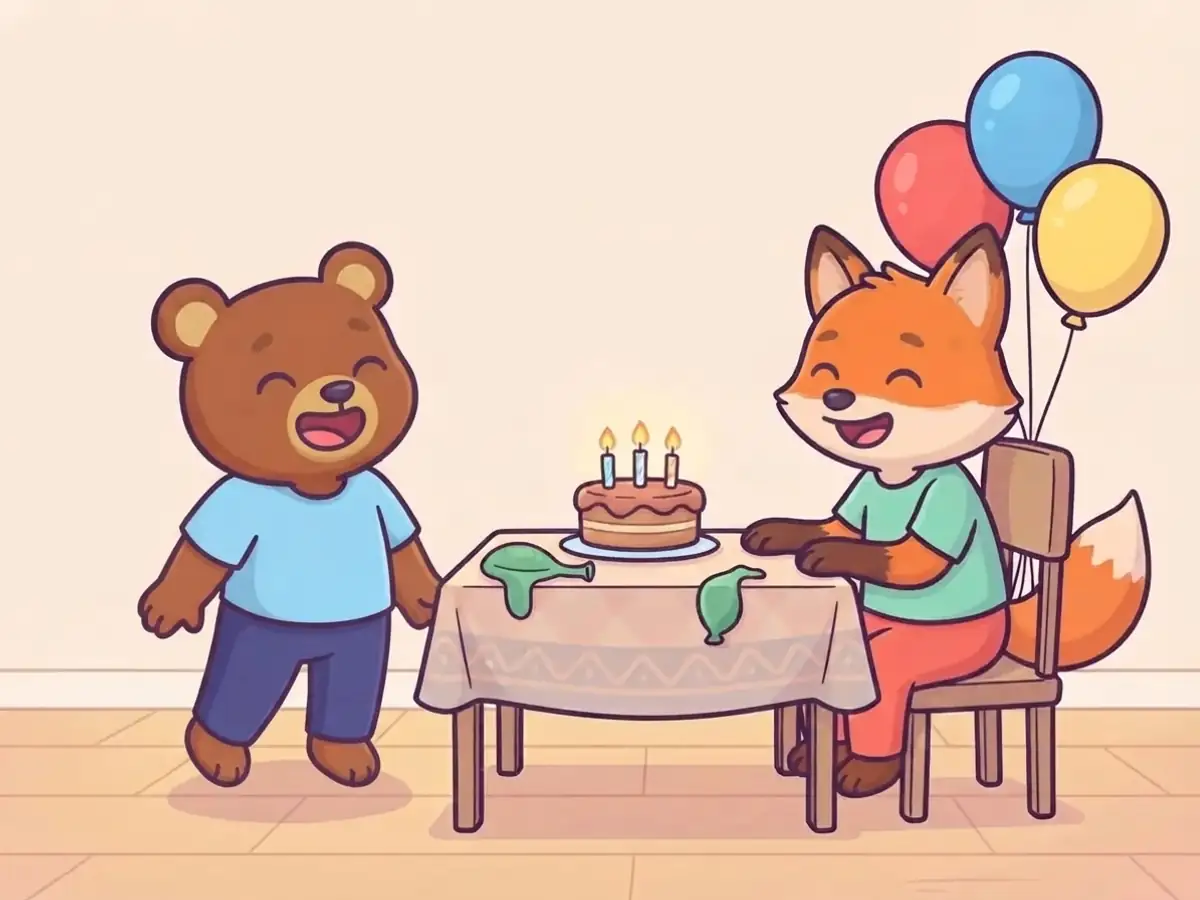
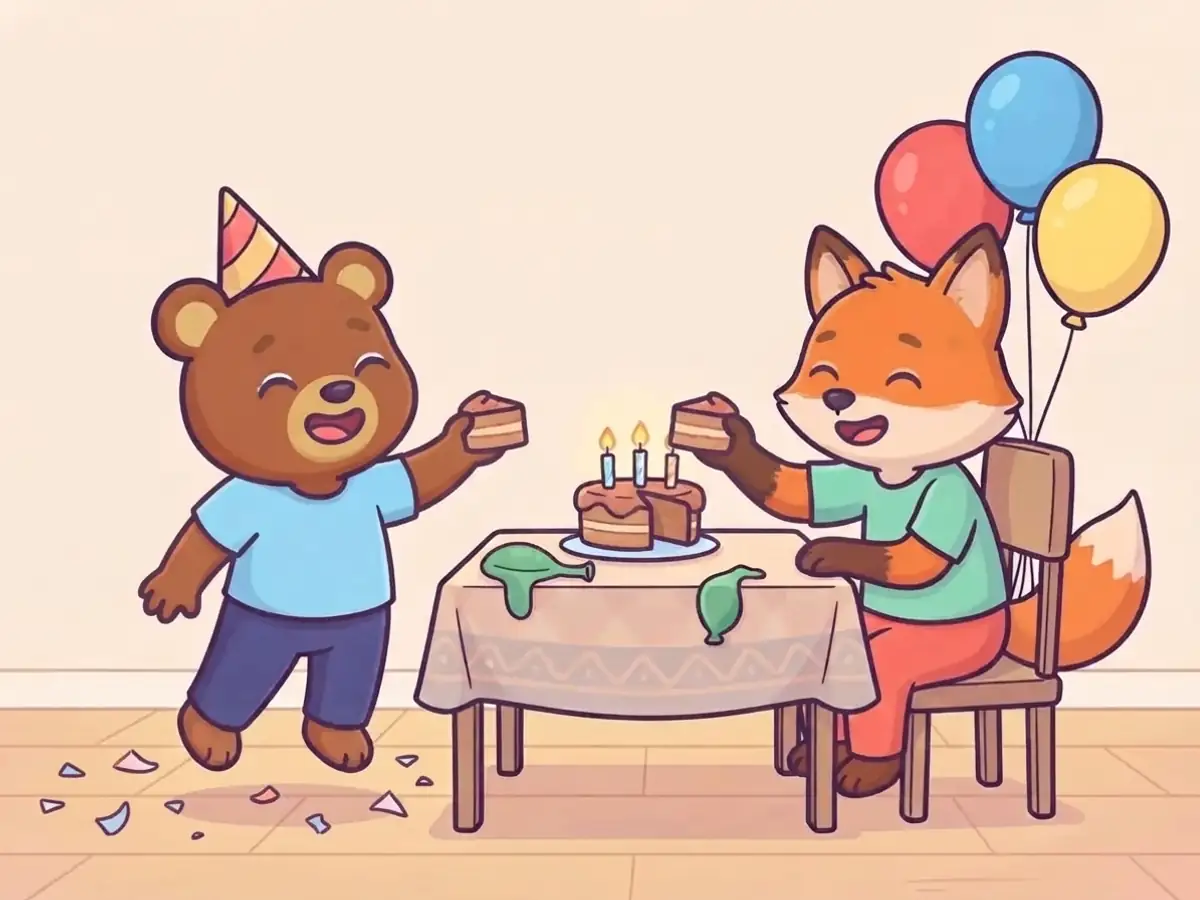
Gefühle: the seven missing home pictures, and the balloon story's breath, cake and scraps fixed
- the not-so-good ideas at home for sad, scared and the birthday are drawn (no „Geplant“ rows left);
  „Geschenk wegnehmen“ became „Partyhut wegnehmen“, since the birthday picture shows no present
- „Erschrocken, ein lauter Knall“: „Tief pusten“ turns away from the cake and blows into the empty corner;
  step 3 is „Mit dem Fuchs Kuchen essen“ instead of squeaking a small balloon that could burst; the burst
  balloon's scraps and the party hat stay in every picture; outro and end caption to match
- changed lines told in German until translated: a translated step may be null, outro and end caption may be
  missing (localized.ts); „Zu Hause“ and „Mehr Gefühle“ marked partial, the tests check whole parts strictly
- rules: a breath never towards a cake or food, a good idea uses only what the first picture shows and nothing
  that can break or startle, what happened stays seen in every later picture

diff --git a/src/games/feelings/feelings.test.ts b/src/games/feelings/feelings.test.ts
@@ -4,7 +4,7 @@ import { LANGUAGE_STATUS } from "@/content/ideas/languageStatus";
 import type { TargetLanguageId } from "@/content/targetLanguages";
 import { COMFORTS, type ComfortId, FEELINGS } from "./bear";
 import { bearImages, imageFor, moodImages, situationImages } from "./images";
-import { SITUATIONS } from "./kita";
+import { SITUATIONS, type SituationId } from "./kita";
 import { COMFORT_TEXTS, FEELING_TEXTS, SITUATION_TEXTS, storyIn } from "./localized";
 import { WEATHERS } from "./mood";
 import { SELF_SITUATIONS } from "./selbst";
@@ -17,13 +17,15 @@ import { RECORDED_SOUNDS } from "./story";
 // "done" (or "text", translated but not recorded yet) there has every text, and changing a German line means marking
 // it "partial" until it is translated again.
 const STATUS_PARTS = LANGUAGE_STATUS.find((row) => row.href === "/gefuehle/")?.parts ?? [];
-const translatedIn = (label: string) =>
+/** The languages a part of the language table has, whole (`done`, `text`) or, with `partly`, also in part. */
+const translatedIn = (label: string, partly = false) =>
   (Object.entries(STATUS_PARTS.find((part) => part.label === label)?.languages ?? {}) as [TargetLanguageId, string][])
-    .filter(([language, state]) => language !== "de" && (state === "done" || state === "text"))
+    .filter(([language, state]) => language !== "de" && (state === "done" || state === "text" || (partly && state === "partial")))
     .map(([language]) => language);
 const TRANSLATED_HOME = translatedIn("Zu Hause");
+const TRANSLATED_HOME_PARTLY = translatedIn("Zu Hause", true);
 const TRANSLATED_KITA = translatedIn("Wie geht's dir? und Kindergarten");
-const TRANSLATED_SELF = translatedIn("Mehr Gefühle");
+const TRANSLATED_SELF = translatedIn("Mehr Gefühle", true);
 
 // Every picture the game asks for is in bilder/. A missing one shows a placeholder with its file name, which is
 // allowed only while bilder/README.md lists it under „Geplant“ with its prompt, for the grown-up to look at first.
@@ -121,11 +123,16 @@ test("every translation of a kindergarten story matches the German beat for beat
       if (!text) continue;
       const where = `${language} ${situation.id}`;
       expect(beatParts(text.intro), `${where} intro`).toEqual(beatParts(situation.intro));
-      expect(beatParts(text.outro), `${where} outro`).toEqual(beatParts(situation.outro));
+      if (text.outro) expect(beatParts(text.outro), `${where} outro`).toEqual(beatParts(situation.outro));
       expect(text.steps.length, `${where} steps`).toBe(situation.steps.length);
-      situation.steps.forEach((step, i) => expect(beatParts(text.steps[i].beats), `${where} step ${i + 1}`).toEqual(beatParts(step.beats)));
+      // A step that is `null` is told in German until it is translated.
+      situation.steps.forEach((step, i) => {
+        const words = text.steps[i];
+        if (words) expect(beatParts(words.beats), `${where} step ${i + 1}`).toEqual(beatParts(step.beats));
+      });
       // Every step's card has a caption of its own.
-      expect(new Set(text.steps.map((s) => s.caption)).size, `${where} captions`).toBe(text.steps.length);
+      const captions = text.steps.flatMap((s) => (s ? [s.caption] : []));
+      expect(new Set(captions).size, `${where} captions`).toBe(captions.length);
     }
   }
 });
@@ -182,19 +189,26 @@ const stringsIn = (value: unknown): string[] =>
 // too) and kindergarten story, so none of them is told half in German.
 test("every translated language has every story", () => {
   expect(TRANSLATED_KITA.length, "the language table's parts of /gefuehle/").toBeGreaterThan(0);
-  for (const language of TRANSLATED_HOME) {
+  // A part marked `partial` has every story, with a changed line here and there told in German (`null`); a part
+  // marked translated has every line.
+  for (const language of TRANSLATED_HOME_PARTLY) {
     for (const id of Object.keys(COMFORTS) as ComfortId[]) expect(COMFORT_TEXTS[language]?.[id], `${language} comfort ${id}`).toBeDefined();
     for (const { id } of FEELINGS) {
       expect(FEELING_TEXTS[language]?.[id], `${language} feeling ${id}`).toBeDefined();
-      expect(FEELING_TEXTS[language]?.[id]?.instead, `${language} feeling ${id}`).not.toContain(null);
+      if (TRANSLATED_HOME.includes(language)) expect(FEELING_TEXTS[language]?.[id]?.instead, `${language} feeling ${id}`).not.toContain(null);
     }
   }
-  for (const language of TRANSLATED_KITA) {
-    for (const { id } of SITUATIONS) expect(SITUATION_TEXTS[language]?.[id], `${language} story ${id}`).toBeDefined();
-  }
+  const whole = (language: TargetLanguageId, id: SituationId) => {
+    const text = SITUATION_TEXTS[language]?.[id];
+    expect(text, `${language} story ${id}`).toBeDefined();
+    expect(text?.steps, `${language} story ${id}`).not.toContain(null);
+    expect(text?.outro && text.endCaption, `${language} story ${id} end`).toBeDefined();
+  };
+  for (const language of TRANSLATED_KITA) for (const { id } of SITUATIONS) whole(language, id);
   for (const language of TRANSLATED_SELF) {
     for (const { id } of SELF_SITUATIONS) expect(SITUATION_TEXTS[language]?.[id], `${language} story ${id}`).toBeDefined();
   }
+  for (const language of translatedIn("Mehr Gefühle")) for (const { id } of SELF_SITUATIONS) whole(language, id);
 });
 
 // A language in its own script has no word left in Latin letters (a name like Tapsi is written in its letters too).

diff --git a/src/games/feelings/localized.ts b/src/games/feelings/localized.ts
@@ -33,15 +33,19 @@ export interface FeelingText {
 /** A beat's words in another language: the same parts as the German beat (narration, line or both); its sound stays the German one's. */
 export type BeatText = Pick<Beat, "narration" | "line">;
 
-/** A kindergarten story's words in another language: the German story's texts, beat for beat and step for step. */
+/**
+ * A kindergarten story's words in another language: the German story's texts, beat for beat and step for step. A step
+ * whose German changed is `null`, and a changed outro or end caption is left out: they are told in German until the
+ * translation is asked for (like a not-so-good idea at home that is `null`).
+ */
 export interface SituationText {
   title: string;
   caption: string;
   intro: BeatText[];
   /** `question` like the German step's; while it is missing, the general „Was kann der kleine Bär tun?“ stands in. */
-  steps: { caption: string; question?: string; beats: BeatText[]; instead: { caption: string; answer: string } }[];
-  outro: BeatText[];
-  endCaption: string;
+  steps: ({ caption: string; question?: string; beats: BeatText[]; instead: { caption: string; answer: string } } | null)[];
+  outro?: BeatText[];
+  endCaption?: string;
 }
 
 /** The translations of the kind things, by language. */
@@ -93,15 +97,19 @@ export function situationIn(situation: Situation, language: TargetLanguageId): S
     ...situation,
     title: text.title,
     caption: text.caption,
-    endCaption: text.endCaption,
+    endCaption: text.endCaption ?? situation.endCaption,
     intro: beatsIn(situation.intro, text.intro),
-    outro: beatsIn(situation.outro, text.outro),
-    steps: situation.steps.map((step, i) => ({
-      caption: text.steps[i].caption,
-      question: text.steps[i].question ?? pick(QUESTION, language),
-      beats: beatsIn(step.beats, text.steps[i].beats),
-      instead: { ...step.instead, ...text.steps[i].instead },
-    })),
+    outro: text.outro ? beatsIn(situation.outro, text.outro) : situation.outro,
+    steps: situation.steps.map((step, i) => {
+      const words = text.steps[i];
+      if (!words) return step;
+      return {
+        caption: words.caption,
+        question: words.question ?? pick(QUESTION, language),
+        beats: beatsIn(step.beats, words.beats),
+        instead: { ...step.instead, ...words.instead },
+      };
+    }),
   };
 }
 

diff --git a/src/content/ideas/languageStatus.ts b/src/content/ideas/languageStatus.ts
@@ -202,14 +202,14 @@ export const LANGUAGE_STATUS: LanguageStatusRow[] = [
       {
         label: "Zu Hause",
         recorded: true,
-        languages: { de: "done", en: "text", zh: "text", hi: "text", es: "text", ar: "text", ru: "text" },
-        note: "„Müde am Abend“ (der Bär legt sich selbst schlafen) neu übersetzt am 3. November 2026. Deutsch von ElevenLabs gesprochen (Tapsis Stimme, 3. November 2026), die Aufnahmen der anderen Sprachen fehlen noch.",
+        languages: { de: "done", en: "partial", zh: "partial", hi: "partial", es: "partial", ar: "partial", ru: "partial" },
+        note: "„Müde am Abend“ (der Bär legt sich selbst schlafen) neu übersetzt am 3. November 2026. Deutsch von ElevenLabs gesprochen (Tapsis Stimme, 3. November 2026), die Aufnahmen der anderen Sprachen fehlen noch. Übersetzt bis auf „Partyhut wegnehmen“ beim Geburtstag (statt „Geschenk wegnehmen“, 4. November 2026): nur Deutsch, noch nicht aufgenommen.",
       },
       {
         label: "Mehr Gefühle",
         recorded: true,
-        languages: { de: "done", en: "text", zh: "text", hi: "text", es: "text", ar: "text", ru: "text" },
-        note: "24 Geschichten in selbst.ts – enttäuscht, eifersüchtig, Ekel, peinlich, aufgeregt und 19 weitere vom Spielplatz bis zum lauten Knall –, alle auf Deutsch von ElevenLabs gesprochen und alle übersetzt in kita.<Sprache>.ts (3. November 2026); die Aufnahmen der anderen Sprachen fehlen noch.",
+        languages: { de: "done", en: "partial", zh: "partial", hi: "partial", es: "partial", ar: "partial", ru: "partial" },
+        note: "24 Geschichten in selbst.ts – enttäuscht, eifersüchtig, Ekel, peinlich, aufgeregt und 19 weitere vom Spielplatz bis zum lauten Knall –, alle auf Deutsch von ElevenLabs gesprochen und übersetzt in kita.<Sprache>.ts (3. November 2026); die Aufnahmen der anderen Sprachen fehlen noch. Beim lauten Knall ist der dritte Schritt neu („Mit dem Fuchs Kuchen essen“ statt „Kleinen Ballon quietschen lassen“) und das Ende geändert (4. November 2026): nur Deutsch, noch nicht aufgenommen.",
       },
       {
         label: "Buch, Gruppen und Rollen",

diff --git a/src/games/feelings/kita.hi.ts b/src/games/feelings/kita.hi.ts
@@ -949,14 +949,8 @@ export const SITUATIONS_HI: Partial<Record<SituationId, SituationText>> = {
         beats: [{ narration: "वह गहरी फूँक मारता है। फ़ूऊऊ।" }, { narration: "दिल शांत हो जाता है।" }],
         instead: { caption: "केक गिराना", answer: "हम्म, अब केक खराब हो गया। इसकी जगह गहरी फूँक मारो।" },
       },
-      {
-        caption: "छोटे गुब्बारे से चीं-चीं करना",
-        question: "वहाँ एक छोटा गुब्बारा पड़ा है। छोटा भालू क्या कर सकता है?",
-        beats: [{ narration: "वह उसे बहुत धीरे से दबाता है। चीं-ईं-ईं!" }, { narration: "छोटा भालू हँसता है।" }],
-        instead: { caption: "लोमड़ी पर चिल्लाना", answer: "हम्म, अब लोमड़ी भी डर गई। इसकी जगह छोटे गुब्बारे को बहुत धीरे से दबाओ।" },
-      },
+      // „Mit dem Fuchs Kuchen essen“ is new in German (November 2026): told in German until translated.
+      null,
     ],
-    outro: [{ narration: "बहुत बढ़िया! कान बंद करना, फूँक मारना, और फिर खुद धीरे से चीं-चीं करना।" }],
-    endCaption: "भालू और लोमड़ी छोटे गुब्बारे के साथ हँसते हैं",
   },
 };

diff --git a/src/games/feelings/selbst.ts b/src/games/feelings/selbst.ts
@@ -796,16 +796,13 @@ export const SELF_SITUATIONS: Situation[] = [
         instead: { caption: "Kuchen umwerfen", answer: "Hmm, jetzt ist der Kuchen kaputt. Puste lieber ganz tief.", sound: "crash" },
       },
       {
-        caption: "Kleinen Ballon quietschen lassen",
-        question: "Da liegt ein kleiner Ballon. Was kann der kleine Bär tun?",
-        beats: [
-          { narration: "Er drückt ihn ganz vorsichtig. Quiiietsch!", sound: "boing" },
-          { narration: "Der kleine Bär lacht.", sound: "laugh" },
-        ],
-        instead: { caption: "Den Fuchs anbrüllen", answer: "Hmm, jetzt erschrickt der Fuchs auch. Drück lieber ganz vorsichtig den kleinen Ballon." },
+        caption: "Mit dem Fuchs Kuchen essen",
+        question: "Der Fuchs wartet am Geburtstagstisch. Was kann der kleine Bär tun?",
+        beats: [{ narration: "Er geht zum Fuchs an den Tisch. Sie essen zusammen Kuchen." }, { line: "Mmh, lecker!", sound: "laugh" }],
+        instead: { caption: "Den Fuchs anbrüllen", answer: "Hmm, jetzt erschrickt der Fuchs auch. Geh lieber zu ihm und iss Kuchen mit ihm." },
       },
     ],
-    outro: [{ narration: "Super! Ohren zuhalten, pusten, und dann selbst ganz leise quietschen.", sound: "cheer" }],
-    endCaption: "Bär und Fuchs lachen mit dem kleinen Ballon",
+    outro: [{ narration: "Super! Ohren zuhalten, tief pusten und dann zusammen Kuchen essen.", sound: "cheer" }],
+    endCaption: "Bär und Fuchs essen zusammen Kuchen",
   },
 ];

diff --git a/src/games/feelings/kita.ru.ts b/src/games/feelings/kita.ru.ts
@@ -943,14 +943,8 @@ export const SITUATIONS_RU: Partial<Record<SituationId, SituationText>> = {
         beats: [{ narration: "Он глубоко-глубоко дует. Фууух." }, { narration: "Сердце стучит спокойнее." }],
         instead: { caption: "Опрокинуть торт", answer: "Хм, теперь торт испорчен. Лучше подуй глубоко-глубоко." },
       },
-      {
-        caption: "Пискнуть маленьким шариком",
-        question: "Тут лежит маленький шарик. Что может сделать Мишка?",
-        beats: [{ narration: "Он очень осторожно сжимает его. Пи-и-иск!" }, { narration: "Мишка смеётся." }],
-        instead: { caption: "Накричать на Лисёнка", answer: "Хм, теперь и Лисёнок испугался. Лучше осторожно сожми маленький шарик." },
-      },
+      // „Mit dem Fuchs Kuchen essen“ is new in German (November 2026): told in German until translated.
+      null,
     ],
-    outro: [{ narration: "Супер! Закрыть уши, подуть, а потом тихонько пискнуть шариком." }],
-    endCaption: "Мишка и Лисёнок смеются с маленьким шариком",
   },
 };

diff --git a/src/games/feelings/kita.ar.ts b/src/games/feelings/kita.ar.ts
@@ -947,14 +947,8 @@ export const SITUATIONS_AR: Partial<Record<SituationId, SituationText>> = {
         beats: [{ narration: "ينفخ نفسًا عميقًا. فووو." }, { narration: "القلب يهدأ." }],
         instead: { caption: "إسقاط الكعكة", answer: "همم، الآن الكعكة خربت. الأفضل أن ينفخ بعمق." },
       },
-      {
-        caption: "جعل البالون الصغير يصرّ",
-        question: "هناك بالون صغير. ماذا يستطيع الدبدوب أن يفعل؟",
-        beats: [{ narration: "يضغطه بحذر شديد. إيييك!" }, { narration: "الدبدوب يضحك." }],
-        instead: { caption: "الصراخ على الثعلب الصغير", answer: "همم، الآن يفزع الثعلب الصغير أيضًا. الأفضل أن يضغط البالون الصغير بحذر شديد." },
-      },
+      // „Mit dem Fuchs Kuchen essen“ is new in German (November 2026): told in German until translated.
+      null,
     ],
-    outro: [{ narration: "ممتاز! نسدّ الأذنين، ننفخ، ثم نجعل البالون يصرّ بهدوء بأنفسنا." }],
-    endCaption: "الدبدوب والثعلب الصغير يضحكان مع البالون الصغير",
   },
 };

diff --git a/src/games/feelings/bear.hi.ts b/src/games/feelings/bear.hi.ts
@@ -87,7 +87,8 @@ export const FEELINGS_HI: Partial<Record<FeelingId, FeelingText>> = {
     question: "हम उसके साथ कैसे जश्न मनाएँ?",
     instead: [
       { caption: "गुब्बारा फोड़ना", answer: "हम्म, अब उसका गुब्बारा फूट गया। इसकी जगह उसके साथ नाचो।" },
-      { caption: "तोहफ़ा छीनना", answer: "हम्म, यह उसका तोहफ़ा है। अब वह उदास है। इसकी जगह उसके साथ जश्न मनाओ।" },
+      // „Partyhut wegnehmen“ replaced „Geschenk wegnehmen“ (November 2026): told in German until translated.
+      null,
       { caption: "केक छीनना", answer: "हम्म, यह उसका जन्मदिन का केक है। अब वह उदास है। इसकी जगह उसके साथ जश्न मनाओ।" },
     ],
     end: { narration: "कितना प्यारा जन्मदिन!", line: "शुक्रिया! बहुत मज़ा आया!" },

diff --git a/src/games/feelings/kita.en.ts b/src/games/feelings/kita.en.ts
@@ -977,14 +977,8 @@ export const SITUATIONS_EN: Partial<Record<SituationId, SituationText>> = {
         beats: [{ narration: "He takes a deep breath and blows out: Phoooo." }, { narration: "His heart gets calmer." }],
         instead: { caption: "Knock over the cake", answer: "Hmm, now the cake is ruined. Take a deep breath and blow instead." },
       },
-      {
-        caption: "Make the little balloon squeak",
-        question: "There's a little balloon. What can Little Bear do?",
-        beats: [{ narration: "He squeezes it very gently. Squeeeak!" }, { narration: "Little Bear laughs." }],
-        instead: { caption: "Roar at Little Fox", answer: "Hmm, now Little Fox gets a fright too. Squeeze the little balloon very gently instead." },
-      },
+      // „Mit dem Fuchs Kuchen essen“ is new in German (November 2026): told in German until translated.
+      null,
     ],
-    outro: [{ narration: "Super! Cover your ears, blow, and then make a very soft squeak yourself." }],
-    endCaption: "Little Bear and Little Fox laugh with the little balloon",
   },
 };

diff --git a/src/games/feelings/kita.zh.ts b/src/games/feelings/kita.zh.ts
@@ -923,14 +923,8 @@ export const SITUATIONS_ZH: Partial<Record<SituationId, SituationText>> = {
         beats: [{ narration: "他深深地呼一口气。呼——" }, { narration: "心跳慢下来了。" }],
         instead: { caption: "打翻蛋糕", answer: "嗯，现在蛋糕坏了。还是深深地呼一口气吧。" },
       },
-      {
-        caption: "让小气球吱吱叫",
-        question: "那儿有个小气球。小熊可以怎么做？",
-        beats: [{ narration: "他轻轻地捏一捏。吱——" }, { narration: "小熊笑了。" }],
-        instead: { caption: "冲小狐狸大吼", answer: "嗯，现在小狐狸也吓了一跳。还是轻轻地捏一捏小气球吧。" },
-      },
+      // „Mit dem Fuchs Kuchen essen“ is new in German (November 2026): told in German until translated.
+      null,
     ],
-    outro: [{ narration: "太棒了！捂住耳朵，呼气，再自己让小气球轻轻地吱吱叫。" }],
-    endCaption: "小熊和小狐狸拿着小气球笑",
   },
 };

diff --git a/src/games/feelings/kita.es.ts b/src/games/feelings/kita.es.ts
@@ -955,14 +955,8 @@ export const SITUATIONS_ES: Partial<Record<SituationId, SituationText>> = {
         beats: [{ narration: "Sopla muy hondo. Fuuuh." }, { narration: "El corazón se calma." }],
         instead: { caption: "Tirar el pastel", answer: "Mmm, ahora el pastel está arruinado. Mejor sopla muy hondo." },
       },
-      {
-        caption: "Hacer chillar el globito",
-        question: "Ahí hay un globito. ¿Qué puede hacer Osito?",
-        beats: [{ narration: "Lo aprieta con mucho cuidado. ¡Iiiiic!" }, { narration: "Osito se ríe." }],
-        instead: { caption: "Gritarle a Zorrito", answer: "Mmm, ahora Zorrito también se asusta. Mejor aprieta con cuidado el globito." },
-      },
+      // „Mit dem Fuchs Kuchen essen“ is new in German (November 2026): told in German until translated.
+      null,
     ],
-    outro: [{ narration: "¡Súper! Taparse los oídos, soplar, y luego hacer chillar algo bajito." }],
-    endCaption: "Osito y Zorrito se ríen con el globito",
   },
 };

diff --git a/src/games/feelings/bear.ru.ts b/src/games/feelings/bear.ru.ts
@@ -85,7 +85,8 @@ export const FEELINGS_RU: Partial<Record<FeelingId, FeelingText>> = {
     question: "Как ты отпразднуешь с ним?",
     instead: [
       { caption: "Лопнуть шарик", answer: "Хм, теперь его шарик лопнул. Лучше потанцуй с ним." },
-      { caption: "Забрать подарок", answer: "Хм, это его подарок. Теперь Мишке грустно. Лучше празднуй вместе с ним." },
+      // „Partyhut wegnehmen“ replaced „Geschenk wegnehmen“ (November 2026): told in German until translated.
+      null,
       { caption: "Забрать торт", answer: "Хм, это его праздничный торт. Теперь Мишке грустно. Лучше празднуй вместе с ним." },
     ],
     end: { narration: "Какой чудесный день рождения!", line: "Спасибо! Как здорово!" },
